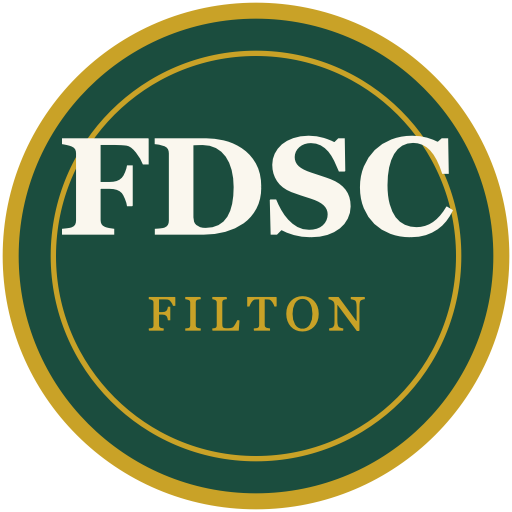
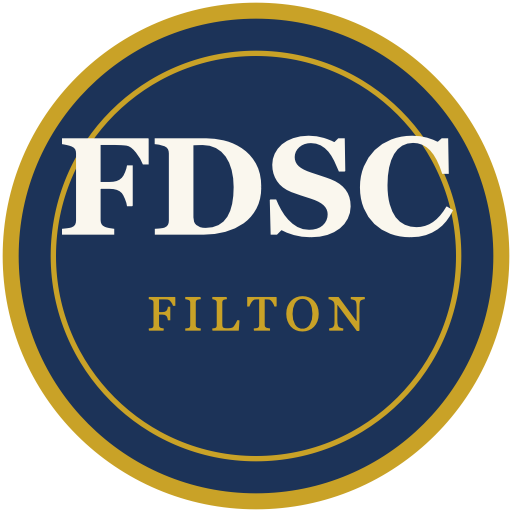
Switch site palette from green to navy
Navy (#1c3358 / #101d33) with the existing gold accent ties the site
to the carpet pattern in the actual clubroom rather than a generic
green. Same variable names (club-green/club-green-dark) so no
component changes were needed.

diff --git a/src/components/Logo.tsx b/src/components/Logo.tsx
@@ -11,7 +11,7 @@ export function Logo({ className }: LogoProps) {
       role="img"
       aria-label="Filton & District Social Club emblem"
     >
-      <circle cx="48" cy="48" r="46" fill="#1b4d3e" stroke="#c9a227" strokeWidth="3" />
+      <circle cx="48" cy="48" r="46" fill="#1c3358" stroke="#c9a227" strokeWidth="3" />
       <circle cx="48" cy="48" r="38" fill="none" stroke="#c9a227" strokeWidth="1" />
       <text
         x="48"

diff --git a/index.html b/index.html
@@ -5,7 +5,7 @@
     <link rel="icon" type="image/svg+xml" href="/favicon.svg" />
     <link rel="apple-touch-icon" sizes="180x180" href="/apple-touch-icon.png" />
     <meta name="viewport" content="width=device-width, initial-scale=1.0" />
-    <meta name="theme-color" content="#1b4d3e" />
+    <meta name="theme-color" content="#1c3358" />
 
     <title>Filton &amp; District Social Club</title>
     <meta

diff --git a/src/index.css b/src/index.css
@@ -1,8 +1,8 @@
 @import "tailwindcss";
 
 @theme {
-  --color-club-green: #1b4d3e;
-  --color-club-green-dark: #12332a;
+  --color-club-green: #1c3358;
+  --color-club-green-dark: #101d33;
   --color-club-gold: #c9a227;
   --color-club-cream: #faf7ee;
 }
